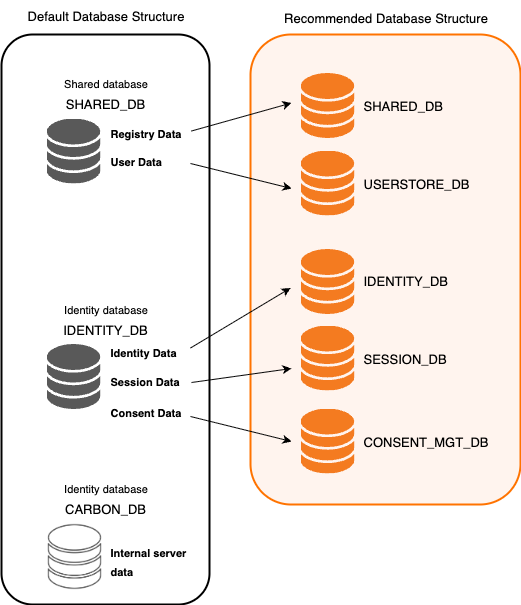
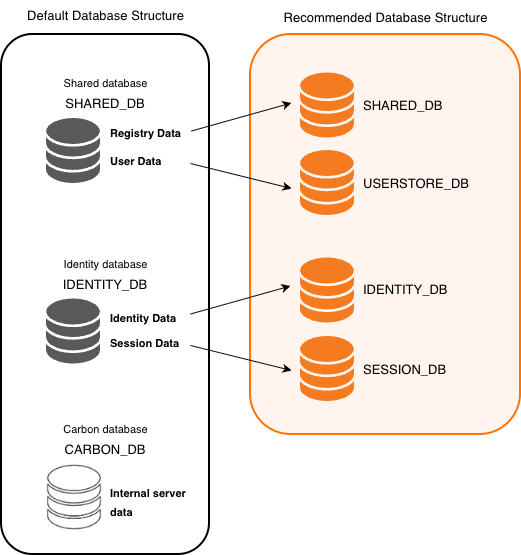
Remove consent db

diff --git a/en/includes/deploy/configure/databases/clustering.md b/en/includes/deploy/configure/databases/clustering.md
@@ -34,11 +34,5 @@ The following image shows the default database structure and a recommended datab
 - Session database separation is recommended for deployments that require higher concurrency and throughput.
 - For more information, see [Change the Datasource for Session Database]({{base_path}}/deploy/configure/databases/carbon-database/change-datasource-session/).
 
-**CONSENT_MGT**
-
-- Used for data pertaining to user consents.
-- This separation was used to share consent data across multiple WSO2 products, but now it is not required.
-- For more information, see [Change the Default Datasource for Consent Management]({{base_path}}/deploy/change-datasource-consent-management).
-
 <!-- TODO !!! note
     For more information on `SHARED_DB` and `IDENTITY_DB`, see [Working with Databases]({{base_path}}/deploy/work-with-databases/).-->
